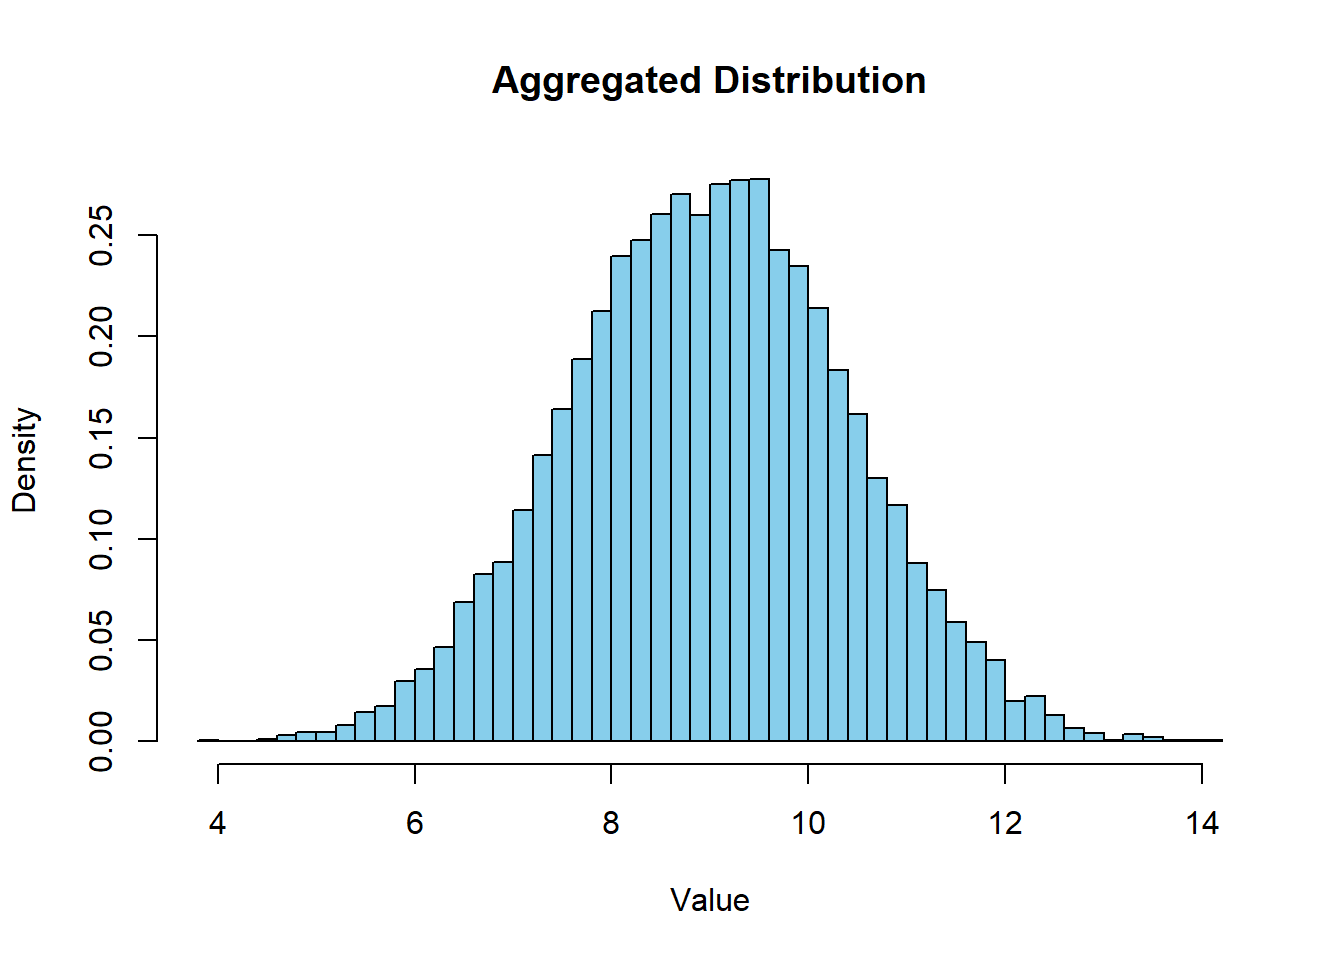
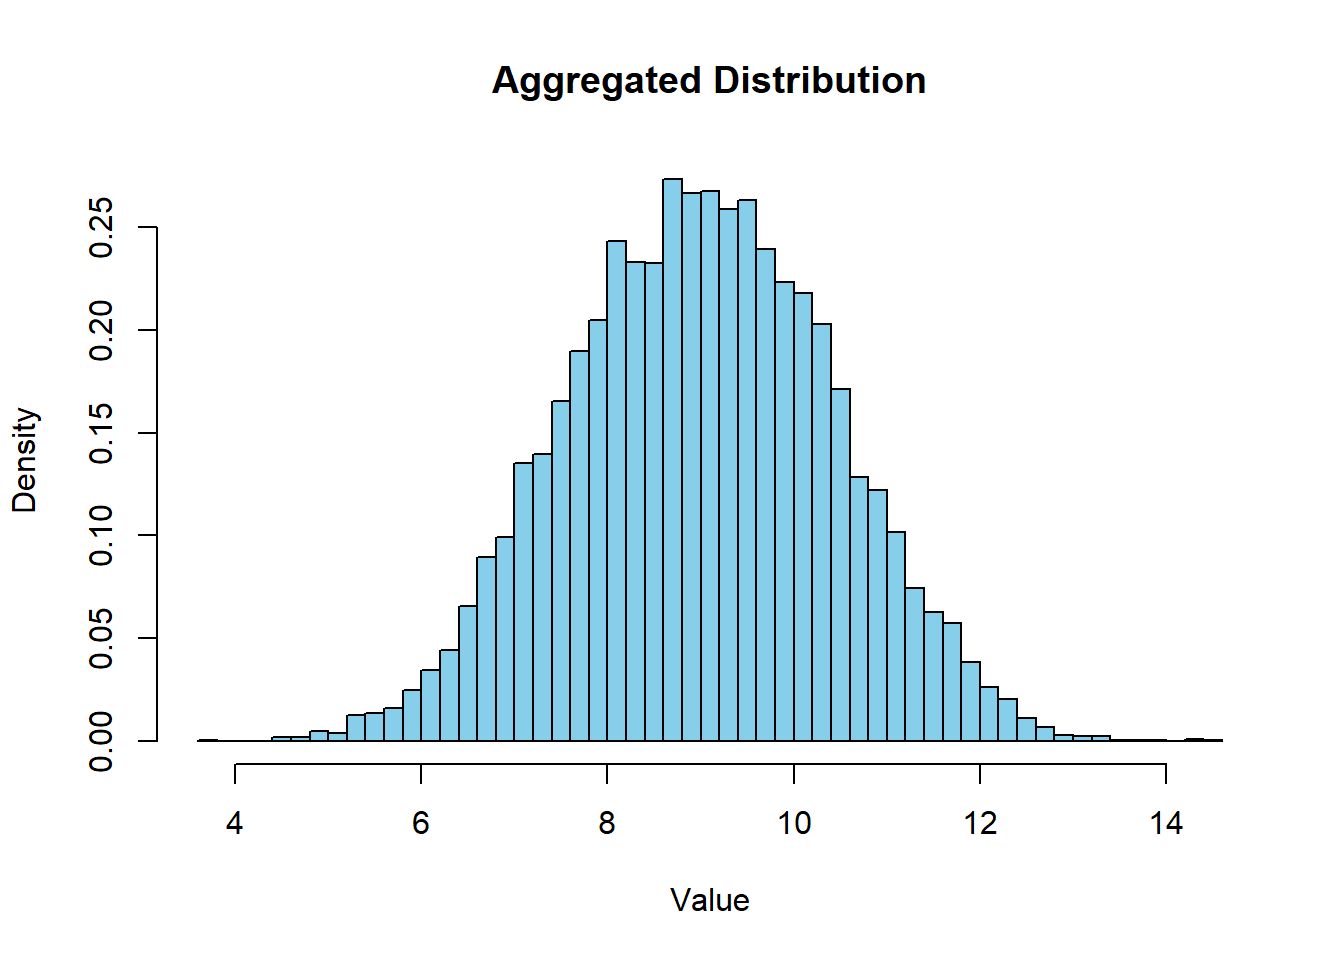
aggregation of triangular distributions incl. R code

diff --git a/_site/posts/aggregation of triangular distributions/aggregation of triangular distributions.html b/_site/posts/aggregation of triangular distributions/aggregation of triangular distributions.html
@@ -23,6 +23,40 @@ ul.task-list li input[type="checkbox"] {
   margin: 0 0.8em 0.2em -1em; /* quarto-specific, see https://github.com/quarto-dev/quarto-cli/issues/4556 */ 
   vertical-align: middle;
 }
+/* CSS for syntax highlighting */
+pre > code.sourceCode { white-space: pre; position: relative; }
+pre > code.sourceCode > span { line-height: 1.25; }
+pre > code.sourceCode > span:empty { height: 1.2em; }
+.sourceCode { overflow: visible; }
+code.sourceCode > span { color: inherit; text-decoration: inherit; }
+div.sourceCode { margin: 1em 0; }
+pre.sourceCode { margin: 0; }
+@media screen {
+div.sourceCode { overflow: auto; }
+}
+@media print {
+pre > code.sourceCode { white-space: pre-wrap; }
+pre > code.sourceCode > span { text-indent: -5em; padding-left: 5em; }
+}
+pre.numberSource code
+  { counter-reset: source-line 0; }
+pre.numberSource code > span
+  { position: relative; left: -4em; counter-increment: source-line; }
+pre.numberSource code > span > a:first-child::before
+  { content: counter(source-line);
+    position: relative; left: -1em; text-align: right; vertical-align: baseline;
+    border: none; display: inline-block;
+    -webkit-touch-callout: none; -webkit-user-select: none;
+    -khtml-user-select: none; -moz-user-select: none;
+    -ms-user-select: none; user-select: none;
+    padding: 0 4px; width: 4em;
+  }
+pre.numberSource { margin-left: 3em;  padding-left: 4px; }
+div.sourceCode
+  {   }
+@media screen {
+pre > code.sourceCode > span > a:first-child::before { text-decoration: underline; }
+}
 </style>
 
 
@@ -245,6 +279,32 @@ window.Quarto = {
 <section id="example" class="level3">
 <h3 class="anchored" data-anchor-id="example">Example</h3>
 <div class="cell">
+<div class="sourceCode cell-code" id="cb1"><pre class="sourceCode r code-with-copy"><code class="sourceCode r"><span id="cb1-1"><a href="#cb1-1" aria-hidden="true" tabindex="-1"></a><span class="co"># Aggregation of triangular distributions with Monte Carlo simulation</span></span>
+<span id="cb1-2"><a href="#cb1-2" aria-hidden="true" tabindex="-1"></a></span>
+<span id="cb1-3"><a href="#cb1-3" aria-hidden="true" tabindex="-1"></a><span class="co"># Load necessary library</span></span>
+<span id="cb1-4"><a href="#cb1-4" aria-hidden="true" tabindex="-1"></a><span class="fu">library</span>(triangle)</span>
+<span id="cb1-5"><a href="#cb1-5" aria-hidden="true" tabindex="-1"></a></span>
+<span id="cb1-6"><a href="#cb1-6" aria-hidden="true" tabindex="-1"></a><span class="co"># Define the triangular distributions</span></span>
+<span id="cb1-7"><a href="#cb1-7" aria-hidden="true" tabindex="-1"></a>distributions <span class="ot">&lt;-</span> <span class="fu">list</span>(</span>
+<span id="cb1-8"><a href="#cb1-8" aria-hidden="true" tabindex="-1"></a>  <span class="fu">c</span>(<span class="dv">1</span>, <span class="dv">3</span>, <span class="dv">5</span>),</span>
+<span id="cb1-9"><a href="#cb1-9" aria-hidden="true" tabindex="-1"></a>  <span class="fu">c</span>(<span class="dv">2</span>, <span class="dv">4</span>, <span class="dv">6</span>),</span>
+<span id="cb1-10"><a href="#cb1-10" aria-hidden="true" tabindex="-1"></a>  <span class="fu">c</span>(<span class="dv">0</span>, <span class="dv">2</span>, <span class="dv">4</span>)</span>
+<span id="cb1-11"><a href="#cb1-11" aria-hidden="true" tabindex="-1"></a>)</span>
+<span id="cb1-12"><a href="#cb1-12" aria-hidden="true" tabindex="-1"></a></span>
+<span id="cb1-13"><a href="#cb1-13" aria-hidden="true" tabindex="-1"></a><span class="co"># Number of samples</span></span>
+<span id="cb1-14"><a href="#cb1-14" aria-hidden="true" tabindex="-1"></a>num_samples <span class="ot">&lt;-</span> <span class="dv">10000</span></span>
+<span id="cb1-15"><a href="#cb1-15" aria-hidden="true" tabindex="-1"></a></span>
+<span id="cb1-16"><a href="#cb1-16" aria-hidden="true" tabindex="-1"></a><span class="co"># Generate samples from each triangular distribution</span></span>
+<span id="cb1-17"><a href="#cb1-17" aria-hidden="true" tabindex="-1"></a>samples <span class="ot">&lt;-</span> <span class="fu">lapply</span>(distributions, <span class="cf">function</span>(params) {</span>
+<span id="cb1-18"><a href="#cb1-18" aria-hidden="true" tabindex="-1"></a>  <span class="fu">rtriangle</span>(num_samples, <span class="at">a =</span> params[<span class="dv">1</span>], <span class="at">b =</span> params[<span class="dv">3</span>], <span class="at">c =</span> params[<span class="dv">2</span>])</span>
+<span id="cb1-19"><a href="#cb1-19" aria-hidden="true" tabindex="-1"></a>})</span>
+<span id="cb1-20"><a href="#cb1-20" aria-hidden="true" tabindex="-1"></a></span>
+<span id="cb1-21"><a href="#cb1-21" aria-hidden="true" tabindex="-1"></a><span class="co"># Sum the samples to get the aggregated samples</span></span>
+<span id="cb1-22"><a href="#cb1-22" aria-hidden="true" tabindex="-1"></a>aggregated_samples <span class="ot">&lt;-</span> <span class="fu">Reduce</span>(<span class="st">`</span><span class="at">+</span><span class="st">`</span>, samples)</span>
+<span id="cb1-23"><a href="#cb1-23" aria-hidden="true" tabindex="-1"></a></span>
+<span id="cb1-24"><a href="#cb1-24" aria-hidden="true" tabindex="-1"></a><span class="co"># Plot the histogram of the aggregated samples</span></span>
+<span id="cb1-25"><a href="#cb1-25" aria-hidden="true" tabindex="-1"></a><span class="fu">hist</span>(aggregated_samples, <span class="at">col=</span><span class="st">"skyblue"</span>, <span class="at">breaks =</span> <span class="dv">50</span>, <span class="at">probability =</span> <span class="cn">TRUE</span>,</span>
+<span id="cb1-26"><a href="#cb1-26" aria-hidden="true" tabindex="-1"></a>     <span class="at">main =</span> <span class="st">"Aggregated Distribution"</span>, <span class="at">xlab =</span> <span class="st">"Value"</span>, <span class="at">ylab =</span> <span class="st">"Density"</span>)</span></code><button title="Copy to Clipboard" class="code-copy-button"><i class="bi"></i></button></pre></div>
 <div class="cell-output-display">
 <div>
 <figure class="figure">
@@ -252,14 +312,22 @@ window.Quarto = {
 </figure>
 </div>
 </div>
+<div class="sourceCode cell-code" id="cb2"><pre class="sourceCode r code-with-copy"><code class="sourceCode r"><span id="cb2-1"><a href="#cb2-1" aria-hidden="true" tabindex="-1"></a><span class="co"># Calculate and print summary statistics</span></span>
+<span id="cb2-2"><a href="#cb2-2" aria-hidden="true" tabindex="-1"></a>mean_value <span class="ot">&lt;-</span> <span class="fu">mean</span>(aggregated_samples)</span>
+<span id="cb2-3"><a href="#cb2-3" aria-hidden="true" tabindex="-1"></a>median_value <span class="ot">&lt;-</span> <span class="fu">median</span>(aggregated_samples)</span>
+<span id="cb2-4"><a href="#cb2-4" aria-hidden="true" tabindex="-1"></a>std_dev <span class="ot">&lt;-</span> <span class="fu">sd</span>(aggregated_samples)</span>
+<span id="cb2-5"><a href="#cb2-5" aria-hidden="true" tabindex="-1"></a></span>
+<span id="cb2-6"><a href="#cb2-6" aria-hidden="true" tabindex="-1"></a><span class="fu">cat</span>(<span class="st">"Mean:"</span>, mean_value, <span class="st">"</span><span class="sc">\n</span><span class="st">"</span>)</span></code><button title="Copy to Clipboard" class="code-copy-button"><i class="bi"></i></button></pre></div>
 <div class="cell-output cell-output-stdout">
-<pre><code>Mean: 8.984975 </code></pre>
+<pre><code>Mean: 8.997505 </code></pre>
 </div>
+<div class="sourceCode cell-code" id="cb4"><pre class="sourceCode r code-with-copy"><code class="sourceCode r"><span id="cb4-1"><a href="#cb4-1" aria-hidden="true" tabindex="-1"></a><span class="fu">cat</span>(<span class="st">"Median:"</span>, median_value, <span class="st">"</span><span class="sc">\n</span><span class="st">"</span>)</span></code><button title="Copy to Clipboard" class="code-copy-button"><i class="bi"></i></button></pre></div>
 <div class="cell-output cell-output-stdout">
-<pre><code>Median: 8.997904 </code></pre>
+<pre><code>Median: 9.00486 </code></pre>
 </div>
+<div class="sourceCode cell-code" id="cb6"><pre class="sourceCode r code-with-copy"><code class="sourceCode r"><span id="cb6-1"><a href="#cb6-1" aria-hidden="true" tabindex="-1"></a><span class="fu">cat</span>(<span class="st">"Standard Deviation:"</span>, std_dev, <span class="st">"</span><span class="sc">\n</span><span class="st">"</span>)</span></code><button title="Copy to Clipboard" class="code-copy-button"><i class="bi"></i></button></pre></div>
 <div class="cell-output cell-output-stdout">
-<pre><code>Standard Deviation: 1.408295 </code></pre>
+<pre><code>Standard Deviation: 1.430559 </code></pre>
 </div>
 </div>
 </section>
@@ -308,6 +376,67 @@ Central limit theorem
 <section id="example-1" class="level3">
 <h3 class="anchored" data-anchor-id="example-1">Example</h3>
 <div class="cell">
+<div class="sourceCode cell-code" id="cb8"><pre class="sourceCode r code-with-copy"><code class="sourceCode r"><span id="cb8-1"><a href="#cb8-1" aria-hidden="true" tabindex="-1"></a><span class="co"># Convolution of two triangular distributions</span></span>
+<span id="cb8-2"><a href="#cb8-2" aria-hidden="true" tabindex="-1"></a></span>
+<span id="cb8-3"><a href="#cb8-3" aria-hidden="true" tabindex="-1"></a><span class="co"># Define the triangular PDF function</span></span>
+<span id="cb8-4"><a href="#cb8-4" aria-hidden="true" tabindex="-1"></a>triangular_pdf <span class="ot">&lt;-</span> <span class="cf">function</span>(x, a, b, c) {</span>
+<span id="cb8-5"><a href="#cb8-5" aria-hidden="true" tabindex="-1"></a>  <span class="fu">ifelse</span>(x <span class="sc">&lt;</span> a <span class="sc">|</span> x <span class="sc">&gt;</span> c, <span class="dv">0</span>, </span>
+<span id="cb8-6"><a href="#cb8-6" aria-hidden="true" tabindex="-1"></a>         <span class="fu">ifelse</span>(x <span class="sc">&lt;</span> b, (<span class="dv">2</span> <span class="sc">*</span> (x <span class="sc">-</span> a)) <span class="sc">/</span> ((b <span class="sc">-</span> a) <span class="sc">*</span> (c <span class="sc">-</span> a)), </span>
+<span id="cb8-7"><a href="#cb8-7" aria-hidden="true" tabindex="-1"></a>                (<span class="dv">2</span> <span class="sc">*</span> (c <span class="sc">-</span> x)) <span class="sc">/</span> ((c <span class="sc">-</span> b) <span class="sc">*</span> (c <span class="sc">-</span> a))))</span>
+<span id="cb8-8"><a href="#cb8-8" aria-hidden="true" tabindex="-1"></a>}</span>
+<span id="cb8-9"><a href="#cb8-9" aria-hidden="true" tabindex="-1"></a></span>
+<span id="cb8-10"><a href="#cb8-10" aria-hidden="true" tabindex="-1"></a><span class="co"># Convolution of two triangular PDFs</span></span>
+<span id="cb8-11"><a href="#cb8-11" aria-hidden="true" tabindex="-1"></a>convolution_pdf <span class="ot">&lt;-</span> <span class="cf">function</span>(z, a1, b1, c1, a2, b2, c2) {</span>
+<span id="cb8-12"><a href="#cb8-12" aria-hidden="true" tabindex="-1"></a>  <span class="co"># Integration limits</span></span>
+<span id="cb8-13"><a href="#cb8-13" aria-hidden="true" tabindex="-1"></a>  lower <span class="ot">&lt;-</span> <span class="fu">max</span>(a1, z <span class="sc">-</span> c2)</span>
+<span id="cb8-14"><a href="#cb8-14" aria-hidden="true" tabindex="-1"></a>  upper <span class="ot">&lt;-</span> <span class="fu">min</span>(c1, z <span class="sc">-</span> a2)</span>
+<span id="cb8-15"><a href="#cb8-15" aria-hidden="true" tabindex="-1"></a>  </span>
+<span id="cb8-16"><a href="#cb8-16" aria-hidden="true" tabindex="-1"></a>  <span class="co"># Handle cases where integration is not possible</span></span>
+<span id="cb8-17"><a href="#cb8-17" aria-hidden="true" tabindex="-1"></a>  <span class="cf">if</span> (lower <span class="sc">&gt;</span> upper) {</span>
+<span id="cb8-18"><a href="#cb8-18" aria-hidden="true" tabindex="-1"></a>    <span class="fu">return</span>(<span class="dv">0</span>)</span>
+<span id="cb8-19"><a href="#cb8-19" aria-hidden="true" tabindex="-1"></a>  }</span>
+<span id="cb8-20"><a href="#cb8-20" aria-hidden="true" tabindex="-1"></a>  </span>
+<span id="cb8-21"><a href="#cb8-21" aria-hidden="true" tabindex="-1"></a>  <span class="co"># Integrate using the integrate function</span></span>
+<span id="cb8-22"><a href="#cb8-22" aria-hidden="true" tabindex="-1"></a>  result <span class="ot">&lt;-</span> <span class="fu">integrate</span>(<span class="cf">function</span>(x) {</span>
+<span id="cb8-23"><a href="#cb8-23" aria-hidden="true" tabindex="-1"></a>    <span class="fu">sapply</span>(x, <span class="cf">function</span>(xi) <span class="fu">triangular_pdf</span>(xi, a1, b1, c1) <span class="sc">*</span> <span class="fu">triangular_pdf</span>(z <span class="sc">-</span> xi, a2, b2, c2))</span>
+<span id="cb8-24"><a href="#cb8-24" aria-hidden="true" tabindex="-1"></a>  }, lower, upper)</span>
+<span id="cb8-25"><a href="#cb8-25" aria-hidden="true" tabindex="-1"></a>  </span>
+<span id="cb8-26"><a href="#cb8-26" aria-hidden="true" tabindex="-1"></a>  <span class="fu">return</span>(result<span class="sc">$</span>value)</span>
+<span id="cb8-27"><a href="#cb8-27" aria-hidden="true" tabindex="-1"></a>}</span>
+<span id="cb8-28"><a href="#cb8-28" aria-hidden="true" tabindex="-1"></a></span>
+<span id="cb8-29"><a href="#cb8-29" aria-hidden="true" tabindex="-1"></a><span class="co"># Create a sequence of x values for plotting</span></span>
+<span id="cb8-30"><a href="#cb8-30" aria-hidden="true" tabindex="-1"></a>x_values <span class="ot">&lt;-</span> <span class="fu">seq</span>(<span class="dv">0</span>, <span class="dv">7</span>, <span class="at">length.out =</span> <span class="dv">1000</span>)</span>
+<span id="cb8-31"><a href="#cb8-31" aria-hidden="true" tabindex="-1"></a></span>
+<span id="cb8-32"><a href="#cb8-32" aria-hidden="true" tabindex="-1"></a><span class="co"># Define the parameters of the two triangular distributions</span></span>
+<span id="cb8-33"><a href="#cb8-33" aria-hidden="true" tabindex="-1"></a>a1 <span class="ot">&lt;-</span> <span class="dv">1</span>; b1 <span class="ot">&lt;-</span> <span class="dv">3</span>; c1 <span class="ot">&lt;-</span> <span class="dv">5</span></span>
+<span id="cb8-34"><a href="#cb8-34" aria-hidden="true" tabindex="-1"></a>a2 <span class="ot">&lt;-</span> <span class="dv">2</span>; b2 <span class="ot">&lt;-</span> <span class="dv">4</span>; c2 <span class="ot">&lt;-</span> <span class="dv">6</span></span>
+<span id="cb8-35"><a href="#cb8-35" aria-hidden="true" tabindex="-1"></a></span>
+<span id="cb8-36"><a href="#cb8-36" aria-hidden="true" tabindex="-1"></a><span class="co"># Calculate the PDFs for both distributions</span></span>
+<span id="cb8-37"><a href="#cb8-37" aria-hidden="true" tabindex="-1"></a>pdf1 <span class="ot">&lt;-</span> <span class="fu">sapply</span>(x_values, triangular_pdf, a1, b1, c1)</span>
+<span id="cb8-38"><a href="#cb8-38" aria-hidden="true" tabindex="-1"></a>pdf2 <span class="ot">&lt;-</span> <span class="fu">sapply</span>(x_values, triangular_pdf, a2, b2, c2)</span>
+<span id="cb8-39"><a href="#cb8-39" aria-hidden="true" tabindex="-1"></a></span>
+<span id="cb8-40"><a href="#cb8-40" aria-hidden="true" tabindex="-1"></a><span class="co"># Plot the first distribution</span></span>
+<span id="cb8-41"><a href="#cb8-41" aria-hidden="true" tabindex="-1"></a><span class="fu">plot</span>(x_values, pdf1, <span class="at">xlim=</span><span class="fu">c</span>(<span class="dv">0</span>,<span class="dv">12</span>), <span class="at">ylim=</span><span class="fu">c</span>(<span class="dv">0</span>,<span class="fl">0.6</span>), <span class="at">type =</span> <span class="st">"l"</span>, <span class="at">col =</span> <span class="st">"blue"</span>, <span class="at">lwd =</span> <span class="dv">1</span>, </span>
+<span id="cb8-42"><a href="#cb8-42" aria-hidden="true" tabindex="-1"></a>     <span class="at">xlab =</span> <span class="st">"x"</span>, <span class="at">ylab =</span> <span class="st">"Density"</span>, <span class="at">main =</span> <span class="st">"Convolution of two triangular distributions"</span>)</span>
+<span id="cb8-43"><a href="#cb8-43" aria-hidden="true" tabindex="-1"></a></span>
+<span id="cb8-44"><a href="#cb8-44" aria-hidden="true" tabindex="-1"></a><span class="co"># Add the second distribution to the plot</span></span>
+<span id="cb8-45"><a href="#cb8-45" aria-hidden="true" tabindex="-1"></a><span class="fu">lines</span>(x_values, pdf2, <span class="at">col =</span> <span class="st">"purple"</span>, <span class="at">lwd =</span> <span class="dv">1</span>)</span>
+<span id="cb8-46"><a href="#cb8-46" aria-hidden="true" tabindex="-1"></a></span>
+<span id="cb8-47"><a href="#cb8-47" aria-hidden="true" tabindex="-1"></a><span class="co"># Add a legend</span></span>
+<span id="cb8-48"><a href="#cb8-48" aria-hidden="true" tabindex="-1"></a><span class="fu">legend</span>(<span class="st">"topright"</span>, <span class="at">legend =</span> <span class="fu">c</span>(<span class="st">"Triangular PDF(1, 3, 5)"</span>, <span class="st">"Triangular PDF(2, 4, 6)"</span>, <span class="st">"PDF of convolution"</span>), </span>
+<span id="cb8-49"><a href="#cb8-49" aria-hidden="true" tabindex="-1"></a>       <span class="at">col =</span> <span class="fu">c</span>(<span class="st">"blue"</span>, <span class="st">"purple"</span>, <span class="st">"lightblue"</span>), <span class="at">lwd =</span> <span class="dv">1</span>)</span>
+<span id="cb8-50"><a href="#cb8-50" aria-hidden="true" tabindex="-1"></a></span>
+<span id="cb8-51"><a href="#cb8-51" aria-hidden="true" tabindex="-1"></a></span>
+<span id="cb8-52"><a href="#cb8-52" aria-hidden="true" tabindex="-1"></a><span class="co"># Generate a range of z values for plotting</span></span>
+<span id="cb8-53"><a href="#cb8-53" aria-hidden="true" tabindex="-1"></a>z_values <span class="ot">&lt;-</span> <span class="fu">seq</span>(a1 <span class="sc">+</span> a2, c1 <span class="sc">+</span> c2, <span class="at">length.out =</span> <span class="dv">1000</span>)</span>
+<span id="cb8-54"><a href="#cb8-54" aria-hidden="true" tabindex="-1"></a></span>
+<span id="cb8-55"><a href="#cb8-55" aria-hidden="true" tabindex="-1"></a><span class="co"># Calculate the convolution PDF values for each z</span></span>
+<span id="cb8-56"><a href="#cb8-56" aria-hidden="true" tabindex="-1"></a>convolution_values <span class="ot">&lt;-</span> <span class="fu">sapply</span>(z_values, <span class="cf">function</span>(z) <span class="fu">convolution_pdf</span>(z, a1, b1, c1, a2, b2, c2))</span>
+<span id="cb8-57"><a href="#cb8-57" aria-hidden="true" tabindex="-1"></a></span>
+<span id="cb8-58"><a href="#cb8-58" aria-hidden="true" tabindex="-1"></a><span class="co"># Plot the resulting convolution PDF</span></span>
+<span id="cb8-59"><a href="#cb8-59" aria-hidden="true" tabindex="-1"></a><span class="fu">lines</span>(z_values, convolution_values, <span class="at">xlim=</span><span class="fu">c</span>(<span class="dv">0</span>,<span class="dv">12</span>), <span class="at">ylim=</span><span class="fu">c</span>(<span class="dv">0</span>,<span class="fl">0.6</span>), <span class="at">type =</span> <span class="st">'l'</span>, <span class="at">col =</span> <span class="st">'lightblue'</span>, <span class="at">lwd =</span> <span class="dv">1</span>,</span>
+<span id="cb8-60"><a href="#cb8-60" aria-hidden="true" tabindex="-1"></a>      <span class="at">main =</span> <span class="st">'Convolution of two triangular distributions'</span>,</span>
+<span id="cb8-61"><a href="#cb8-61" aria-hidden="true" tabindex="-1"></a>      <span class="at">xlab =</span> <span class="st">'Value'</span>, <span class="at">ylab =</span> <span class="st">'Density'</span>)</span></code><button title="Copy to Clipboard" class="code-copy-button"><i class="bi"></i></button></pre></div>
 <div class="cell-output-display">
 <div>
 <figure class="figure">

diff --git a/_site/index.html b/_site/index.html
@@ -211,7 +211,7 @@ window.Quarto = {
 
 <div class="quarto-listing quarto-listing-container-default" id="listing-listing">
 <div class="list quarto-listing-default">
-<div class="quarto-post image-right" data-index="0" data-categories="statistics,risk management" data-listing-date-sort="1719093600000" data-listing-file-modified-sort="1719154071273" data-listing-date-modified-sort="NaN" data-listing-reading-time-sort="7" data-listing-word-count-sort="1331">
+<div class="quarto-post image-right" data-index="0" data-categories="statistics,risk management" data-listing-date-sort="1719093600000" data-listing-file-modified-sort="1719204609723" data-listing-date-modified-sort="NaN" data-listing-reading-time-sort="7" data-listing-word-count-sort="1327">
 <div class="thumbnail">
 <p><a href="./posts/aggregation of triangular distributions/aggregation of triangular distributions.html" class="no-external"></a></p><a href="./posts/aggregation of triangular distributions/aggregation of triangular distributions.html" class="no-external">
 <p><img src="./posts/aggregation of triangular distributions/aggregation of triangular distributions.png" class="thumbnail-image"></p>
